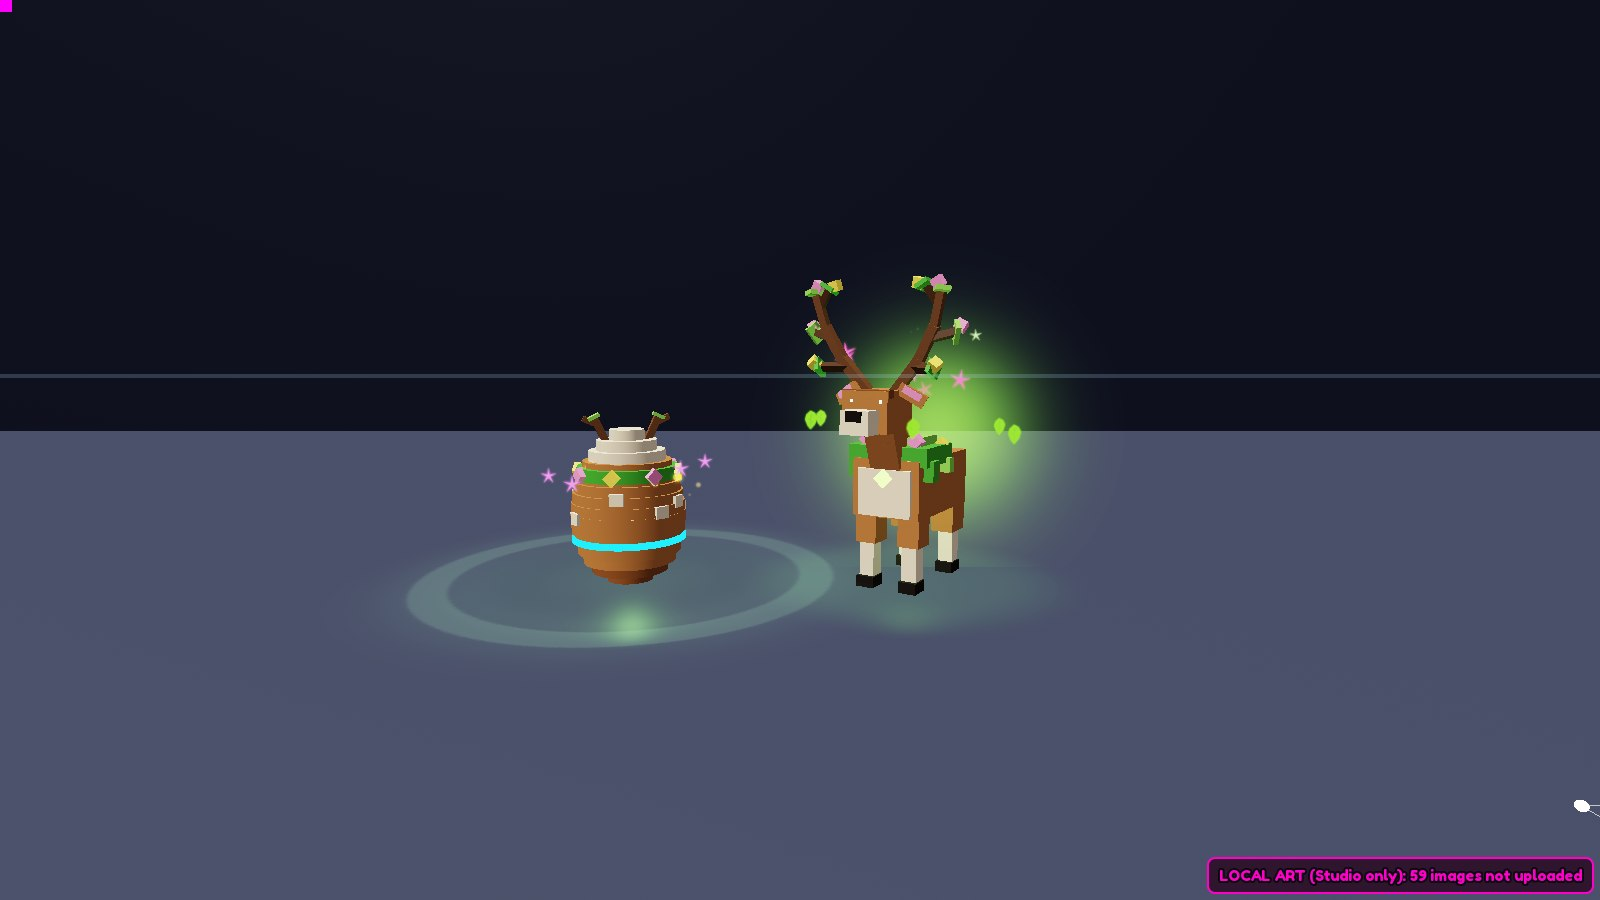
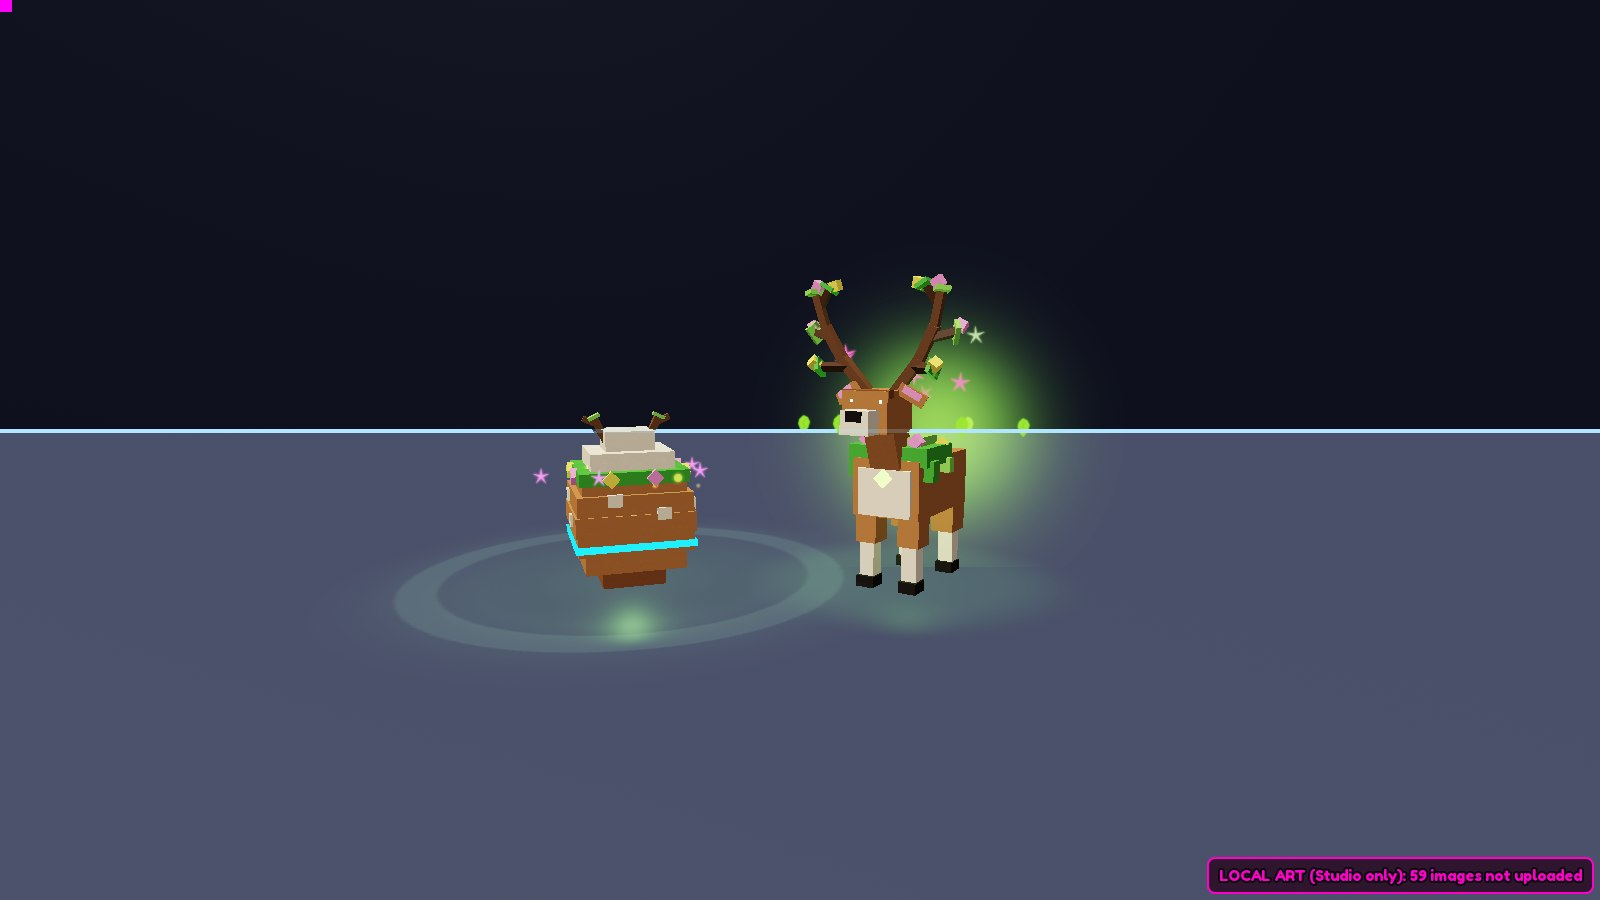
fix(art): hero eggs are blocky again (stepped square layers), not round
Requested: keep the classic blocky egg. Sculpt.eggShell now builds square studded
layers following the egg profile (about one per 0.55 studs of height, 7 for a 3.7-stud
egg, like Kit.eggShell) instead of cylinder slices; eggBand is a square band, onEgg puts
plates flush on the square faces, and the new eggRing replaces circular trims (cap edge,
foam crest, fur). Each egg keeps its design and effects; orbit rings moved out to clear
the square corners, and the Prism Seraph egg's prism wings now fan outward.
Renders and part counts in docs/ updated. Server tests 149/149.

Changed region(s): [[0.0, 0.4044, 1.0, 0.6533], [0.5625, 0.4667, 1.0, 0.4978], [0.9688, 0.8711, 1.0, 0.9022]]

diff --git a/docs/EggPetPlan.md b/docs/EggPetPlan.md
@@ -8,13 +8,13 @@ follow the same language after that, as the brief requires.
 
 | Hero | Rarity | Egg parts | Pet parts | Egg FX layers | Pet FX layers |
 |---|---|---|---|---|---|
-| 01 Sprout Pup | Common | 35 | 36 | 3 | 4 |
-| 03 Meadow Stag | Rare | 39 | 69 | 4 | 5 |
-| 07 Tide Spirit | Epic | 61 | 84 | 5 | 6 |
-| 23 Ice Dragon | Legendary | 69 | 157 | 5 | 7 |
-| 43 Quetzal Phoenix | Mythic | 89 | 174 | 5 | 7 |
-| 63 Clockwork Titan | Divine | 123 | 212 | 5 | 7 |
-| 79 Prism Seraph | Secret | 143 | 227 | 6 | 9 |
+| 01 Sprout Pup | Common | 30 | 36 | 3 | 4 |
+| 03 Meadow Stag | Rare | 32 | 69 | 4 | 5 |
+| 07 Tide Spirit | Epic | 55 | 84 | 5 | 6 |
+| 23 Ice Dragon | Legendary | 62 | 157 | 5 | 7 |
+| 43 Quetzal Phoenix | Mythic | 81 | 174 | 5 | 7 |
+| 63 Clockwork Titan | Divine | 119 | 212 | 5 | 7 |
+| 79 Prism Seraph | Secret | 135 | 227 | 6 | 9 |
 
 Renders (Roblox Studio): `docs/art/heroes/`: one close-up per pair, both lineups, and the old models for
 comparison (`before_*`). Re-render with `sh tools/preview/preview.sh Heroes desktop out.png 1` (eggs), `... 2`
@@ -26,8 +26,9 @@ egg shell fits the chase, every recipe is valid and unique, and effects attach a
 - **Models are block data** (CLAUDE.md rule 3): one file per pair, `Builders/Models/Premium/<Key>.luau`, returning
   `{ egg = Spec, pet = Spec }` for BlockBuilder. The zone files point their entry at it, one line each.
   `Builders/Models/Sculpt.luau` holds the helpers:
-  - `eggShell`: a round, smooth egg made of stacked cylinder slices instead of square slabs;
-  - `eggBand`, `plate` and `onEgg`: put things on the shell;
+  - `eggShell`: the classic blocky egg: stepped square layers with studs (about one layer per 0.55 studs of
+    height, 7 for a 3.7-stud egg);
+  - `eggBand`, `eggRing`, `plate` and `onEgg`: put bands, trims and plates flush on the square faces;
   - `shard`: crystals;
   - `fan`: wings, feathers, crests;
   - `ring` and `gear`: halos, collars, gear rings;
@@ -64,13 +65,13 @@ egg shell fits the chase, every recipe is valid and unique, and effects attach a
 
 | Rarity | Pet parts | Egg parts | Pet FX layers | Must have |
 |---|---|---|---|---|
-| Common | 25–40 | 20–36 | 3–4 | cute readable shape, one soft particle family, soft glow |
-| Uncommon | 35–55 | 25–40 | 3–4 | one extra accessory or silhouette hint |
-| Rare | 55–75 | 35–50 | 4–5 | iconic accessory, coloured eyes, a clear signature effect, rarity band on the egg |
-| Epic | 75–110 | 50–70 | 5–6 | transformed silhouette, floating parts (Orbit), layered particles |
-| Legendary | 120–160 | 60–80 | 6–7 | hero silhouette (wings/horns/spikes), one major ring, an accent light |
-| Mythic | 160–190 | 80–100 | 7 | several effect families, Halo + Orbit groups, rays or trails, two lights |
-| Divine | 190–220 | 100–130 | 7 | ceremonial framing: sigil disc, rays, crown/halo, gear or sun framing |
+| Common | 25–40 | 20–30 | 3–4 | cute readable shape, one soft particle family, soft glow |
+| Uncommon | 35–55 | 25–35 | 3–4 | one extra accessory or silhouette hint |
+| Rare | 55–75 | 30–45 | 4–5 | iconic accessory, coloured eyes, a clear signature effect, rarity band on the egg |
+| Epic | 75–110 | 45–60 | 5–6 | transformed silhouette, floating parts (Orbit), layered particles |
+| Legendary | 120–160 | 55–70 | 6–7 | hero silhouette (wings/horns/spikes), one major ring, an accent light |
+| Mythic | 160–190 | 70–90 | 7 | several effect families, Halo + Orbit groups, rays or trails, two lights |
+| Divine | 190–220 | 100–125 | 7 | ceremonial framing: sigil disc, rays, crown/halo, gear or sun framing |
 | Secret | 220+ | 130+ | 8–9 | the showcase stack: rainbow trails, prism rings, rays, holy glow, three orbit layers |
 
 **Build approach:** every pair is planned as **procedural blocks** (BlockBuilder + Sculpt). Four organic
